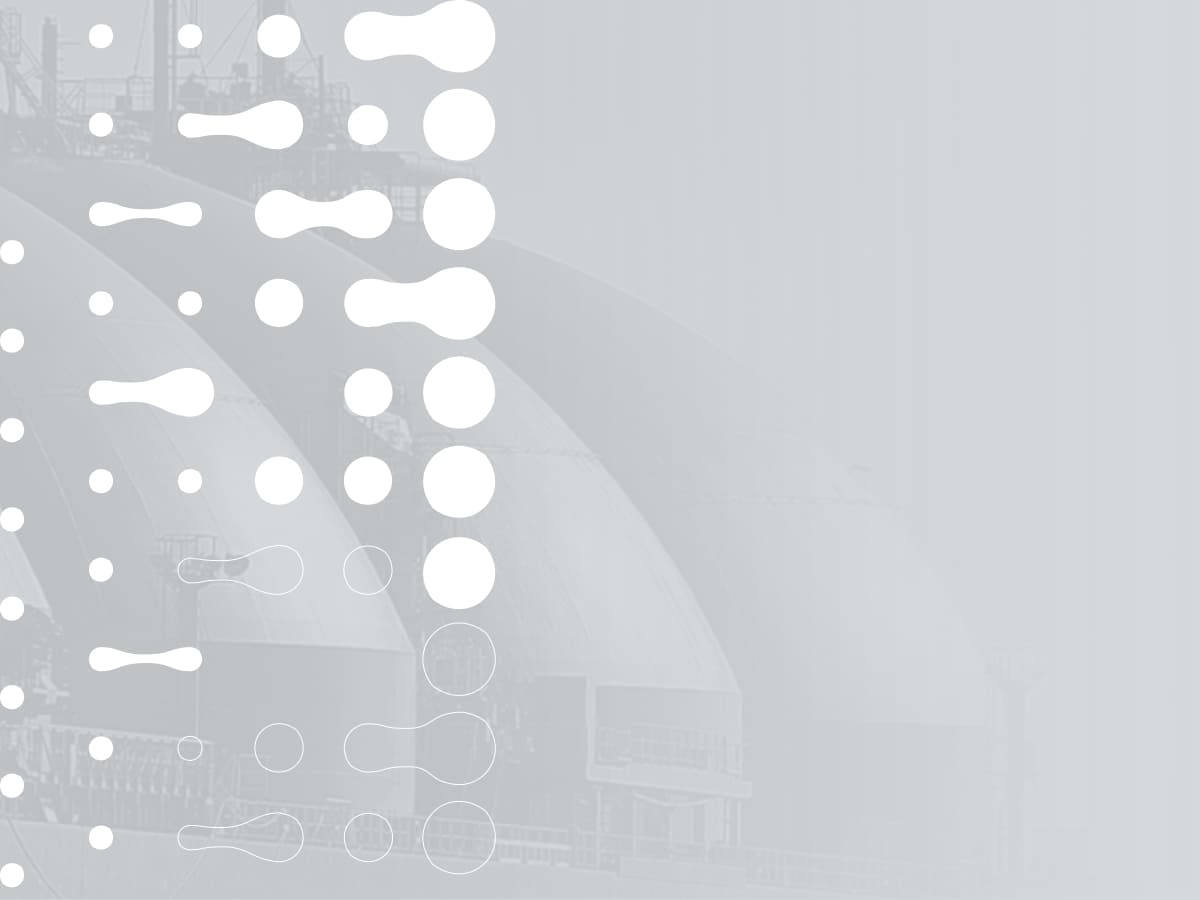
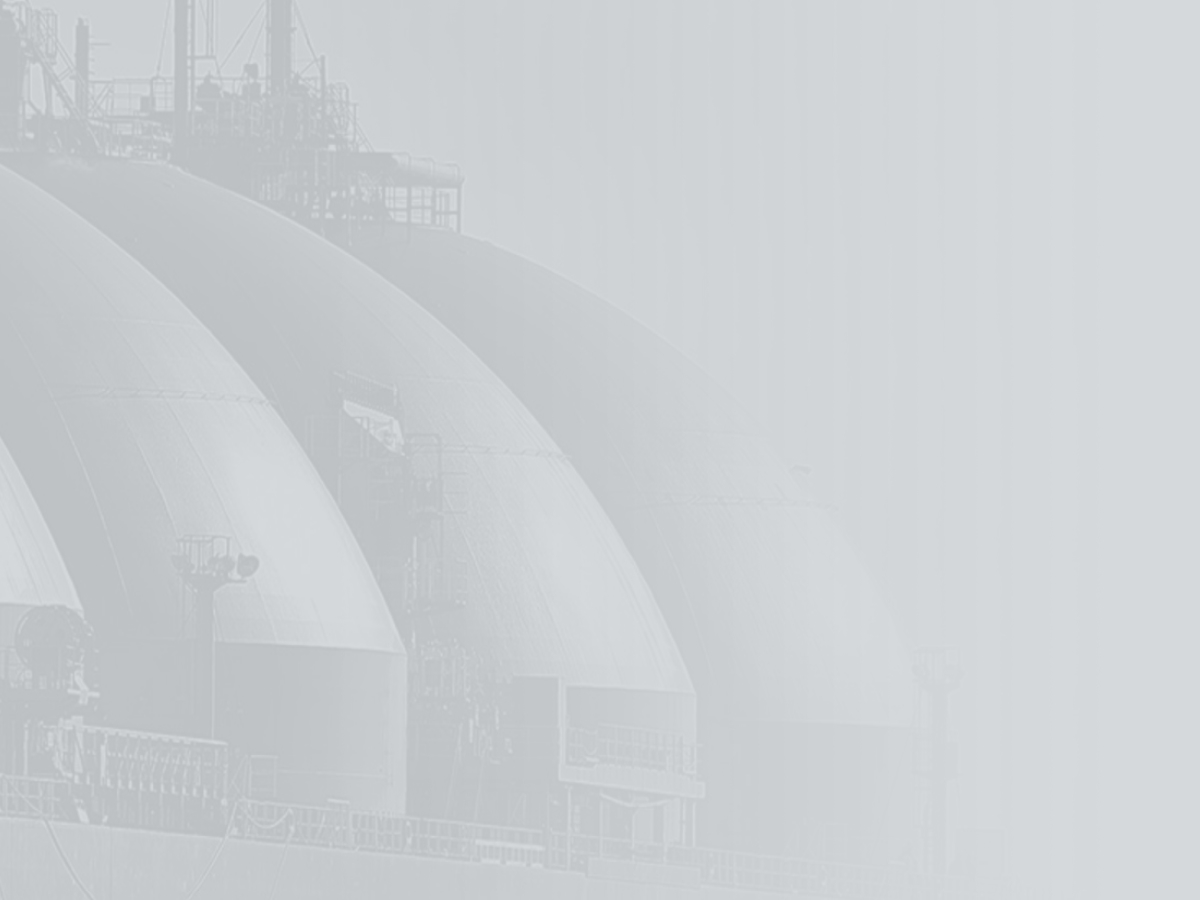
paralax on team section main page

diff --git a/main/styles/style.css b/main/styles/style.css
@@ -637,6 +637,7 @@ header.header {
 	background-color: #d1d5d8;
 	padding-top: 150px;
 	overflow: hidden;
+	position: relative;
 }
 .team__flex {
 	display: flex;
@@ -657,6 +658,7 @@ header.header {
 	width: 100%;
 	height: 100%;
 	object-fit: contain;
+	z-index: 2;
 }
 .team__title {
 	color: #000003;
@@ -674,6 +676,12 @@ header.header {
 	color: #000003;
 	font-weight: 300;
 	margin-bottom: 3.5rem;
+	position: relative;
+	z-index: 5;
+}
+.team__button {
+	z-index: 5;
+	position: relative;
 }
 .team__title_back {
 	position: absolute;
@@ -689,6 +697,7 @@ header.header {
 }
 .team__parallax {
 	position: absolute;
+	z-index: 3;
 }
 .team__parallax_1 {
 	top: 57%;
@@ -719,8 +728,8 @@ header.header {
 	left: 50%;
 }
 .team__parallax_8 {
-	top: 90%;
-	left: 13%;
+	top: 80%;
+	left: 23%;
 }
 .team__parallax_9 {
 	top: 90%;
@@ -730,7 +739,92 @@ header.header {
 	top: 90%;
 	left: 66%;
 }
+.team__parallax-back {
+	position: absolute;
+	left: 0; /* Оставляем элементы слева */
+	z-index: 0;
+}
 
+.team__parallax-back_1 {
+	top: 5%;
+	left: 5%;
+}
+.team__parallax-back_2 {
+	top: 12%;
+	left: 15%;
+}
+.team__parallax-back_3 {
+	top: 25%;
+	left: 22%;
+}
+.team__parallax-back_4 {
+	top: 35%;
+	left: 10%;
+}
+.team__parallax-back_5 {
+	top: 45%;
+	left: 28%;
+}
+.team__parallax-back_6 {
+	top: 55%;
+	left: 7%;
+}
+.team__parallax-back_7 {
+	top: 65%;
+	left: 18%;
+}
+.team__parallax-back_8 {
+	top: 78%;
+	left: 6%;
+} /* было 35% */
+.team__parallax-back_9 {
+	top: 85%;
+	left: 4%;
+}
+.team__parallax-back_10 {
+	top: 95%;
+	left: 26%;
+}
+.team__parallax-back_11 {
+	top: 10%;
+	left: 22%;
+}
+.team__parallax-back_12 {
+	top: 20%;
+	left: 5%;
+}
+.team__parallax-back_13 {
+	top: 30%;
+	left: 27%;
+}
+.team__parallax-back_14 {
+	top: 42%;
+	left: 4%;
+} /* было 32% */
+.team__parallax-back_15 {
+	top: 52%;
+	left: 14%;
+}
+.team__parallax-back_16 {
+	top: 63%;
+	left: 28%;
+}
+.team__parallax-back_17 {
+	top: 70%;
+	left: 4%;
+}
+.team__parallax-back_18 {
+	top: 77%;
+	left: 14%;
+}
+.team__parallax-back_19 {
+	top: 90%;
+	left: 3%;
+}
+.team__parallax-back_20 {
+	top: 85%;
+	left: 13%;
+} /* было 39% */
 /* warranty */
 .warranty {
 	background: url('../img/warranty/warrantyBG.jpg') no-repeat center center;
@@ -1177,6 +1271,86 @@ header.header {
 	.team__parallax_10 {
 		top: 90%;
 		left: 66%;
+	}
+	.team__parallax-back_1 {
+		top: 5%;
+		left: 5%;
+	}
+	.team__parallax-back_2 {
+		top: 10%;
+		left: 20%;
+	}
+	.team__parallax-back_3 {
+		top: 15%;
+		left: 35%;
+	}
+	.team__parallax-back_4 {
+		top: 25%;
+		left: 10%;
+	}
+	.team__parallax-back_5 {
+		top: 30%;
+		left: 25%;
+	}
+	.team__parallax-back_6 {
+		top: 40%;
+		left: 15%;
+	}
+	.team__parallax-back_7 {
+		top: 50%;
+		left: 30%;
+	}
+	.team__parallax-back_8 {
+		top: 60%;
+		left: 5%;
+	}
+	.team__parallax-back_9 {
+		top: 70%;
+		left: 40%;
+	}
+	.team__parallax-back_10 {
+		top: 75%;
+		left: 15%;
+	}
+	.team__parallax-back_11 {
+		top: 80%;
+		left: 25%;
+	}
+	.team__parallax-back_12 {
+		top: 15%;
+		left: 45%;
+	}
+	.team__parallax-back_13 {
+		top: 35%;
+		left: 50%;
+	}
+	.team__parallax-back_14 {
+		top: 45%;
+		left: 35%;
+	}
+	.team__parallax-back_15 {
+		top: 55%;
+		left: 60%;
+	}
+	.team__parallax-back_16 {
+		top: 65%;
+		left: 70%;
+	}
+	.team__parallax-back_17 {
+		top: 80%;
+		left: 80%;
+	}
+	.team__parallax-back_18 {
+		top: 85%;
+		left: 90%;
+	}
+	.team__parallax-back_19 {
+		top: 90%;
+		left: 15%;
+	}
+	.team__parallax-back_20 {
+		top: 95%;
+		left: 30%;
 	}
 }
 @media (max-width: 680px) {

diff --git a/main/index.html b/main/index.html
@@ -3237,6 +3237,66 @@
 						</div>
 					</div>
 				</div>
+				<div class="team__parallax-back team__parallax-back_1">
+					<img src="img/team/parallax_back1.svg" alt="parallax back 1" />
+				</div>
+				<div class="team__parallax-back team__parallax-back_2">
+					<img src="img/team/parallax_back2.svg" alt="parallax back 2" />
+				</div>
+				<div class="team__parallax-back team__parallax-back_3">
+					<img src="img/team/parallax_back3.svg" alt="parallax back 3" />
+				</div>
+				<div class="team__parallax-back team__parallax-back_4">
+					<img src="img/team/parallax_back4.svg" alt="parallax back 4" />
+				</div>
+				<div class="team__parallax-back team__parallax-back_5">
+					<img src="img/team/parallax_back5.svg" alt="parallax back 5" />
+				</div>
+				<div class="team__parallax-back team__parallax-back_6">
+					<img src="img/team/parallax_back6.svg" alt="parallax back 6" />
+				</div>
+				<div class="team__parallax-back team__parallax-back_7">
+					<img src="img/team/parallax_back7.svg" alt="parallax back 7" />
+				</div>
+				<div class="team__parallax-back team__parallax-back_8">
+					<img src="img/team/parallax_back8.svg" alt="parallax back 8" />
+				</div>
+				<div class="team__parallax-back team__parallax-back_9">
+					<img src="img/team/parallax_back9.svg" alt="parallax back 9" />
+				</div>
+				<div class="team__parallax-back team__parallax-back_10">
+					<img src="img/team/parallax_back10.svg" alt="parallax back 10" />
+				</div>
+				<div class="team__parallax-back team__parallax-back_11">
+					<img src="img/team/parallax_back11.svg" alt="parallax back 11" />
+				</div>
+				<div class="team__parallax-back team__parallax-back_12">
+					<img src="img/team/parallax_back12.svg" alt="parallax back 12" />
+				</div>
+				<div class="team__parallax-back team__parallax-back_13">
+					<img src="img/team/parallax_back13.svg" alt="parallax back 13" />
+				</div>
+				<div class="team__parallax-back team__parallax-back_14">
+					<img src="img/team/parallax_back14.svg" alt="parallax back 14" />
+				</div>
+				<div class="team__parallax-back team__parallax-back_15">
+					<img src="img/team/parallax_back15.svg" alt="parallax back 15" />
+				</div>
+				<div class="team__parallax-back team__parallax-back_16">
+					<img src="img/team/parallax_back16.svg" alt="parallax back 16" />
+				</div>
+				<div class="team__parallax-back team__parallax-back_17">
+					<img src="img/team/parallax_back17.svg" alt="parallax back 17" />
+				</div>
+				<div class="team__parallax-back team__parallax-back_18">
+					<img src="img/team/parallax_back18.svg" alt="parallax back 18" />
+				</div>
+				<div class="team__parallax-back team__parallax-back_19">
+					<img src="img/team/parallax_back19.svg" alt="parallax back 19" />
+				</div>
+				<div class="team__parallax-back team__parallax-back_20">
+					<img src="img/team/parallax_back20.svg" alt="parallax back 20" />
+				</div>
 			</section>
 			<section class="warranty">
 				<div class="warranty__container">

diff --git a/main/js/index.js b/main/js/index.js
@@ -177,6 +177,30 @@ document.addEventListener('scroll', function () {
 		// Применяем только трансформацию на основе скролла
 		element.style.transform = `translateY(${offset}px)`;
 	});
+
+	// back
+	const parallaxElementsBack = document.querySelectorAll(
+		'.team__parallax-back'
+	);
+	const teamSection = document.querySelector('section.team');
+	const teamSectionTop = teamSection.getBoundingClientRect().top;
+
+	// Проверяем, находится ли секция .team в видимой области
+	if (teamSectionTop < windowHeight) {
+		const scrollPosition = window.scrollY; // Текущая позиция прокрутки
+
+		parallaxElementsBack.forEach((element, index) => {
+			const speed = (index + 1) * 0.04; // Варьируем скорость для хаотичного эффекта
+
+			// Если индекс четный, движем вниз, если нечетный — вверх
+			const direction = index % 2 === 0 ? 1 : -1;
+
+			// Применяем сдвиг по оси Y, отсчитывая от начала секции
+			element.style.transform = `translateY(${
+				(scrollPosition - teamSection.offsetTop) * speed * direction
+			}px)`;
+		});
+	}
 });
 // team
 // Определяем переменную section для использования внутри обработчика
